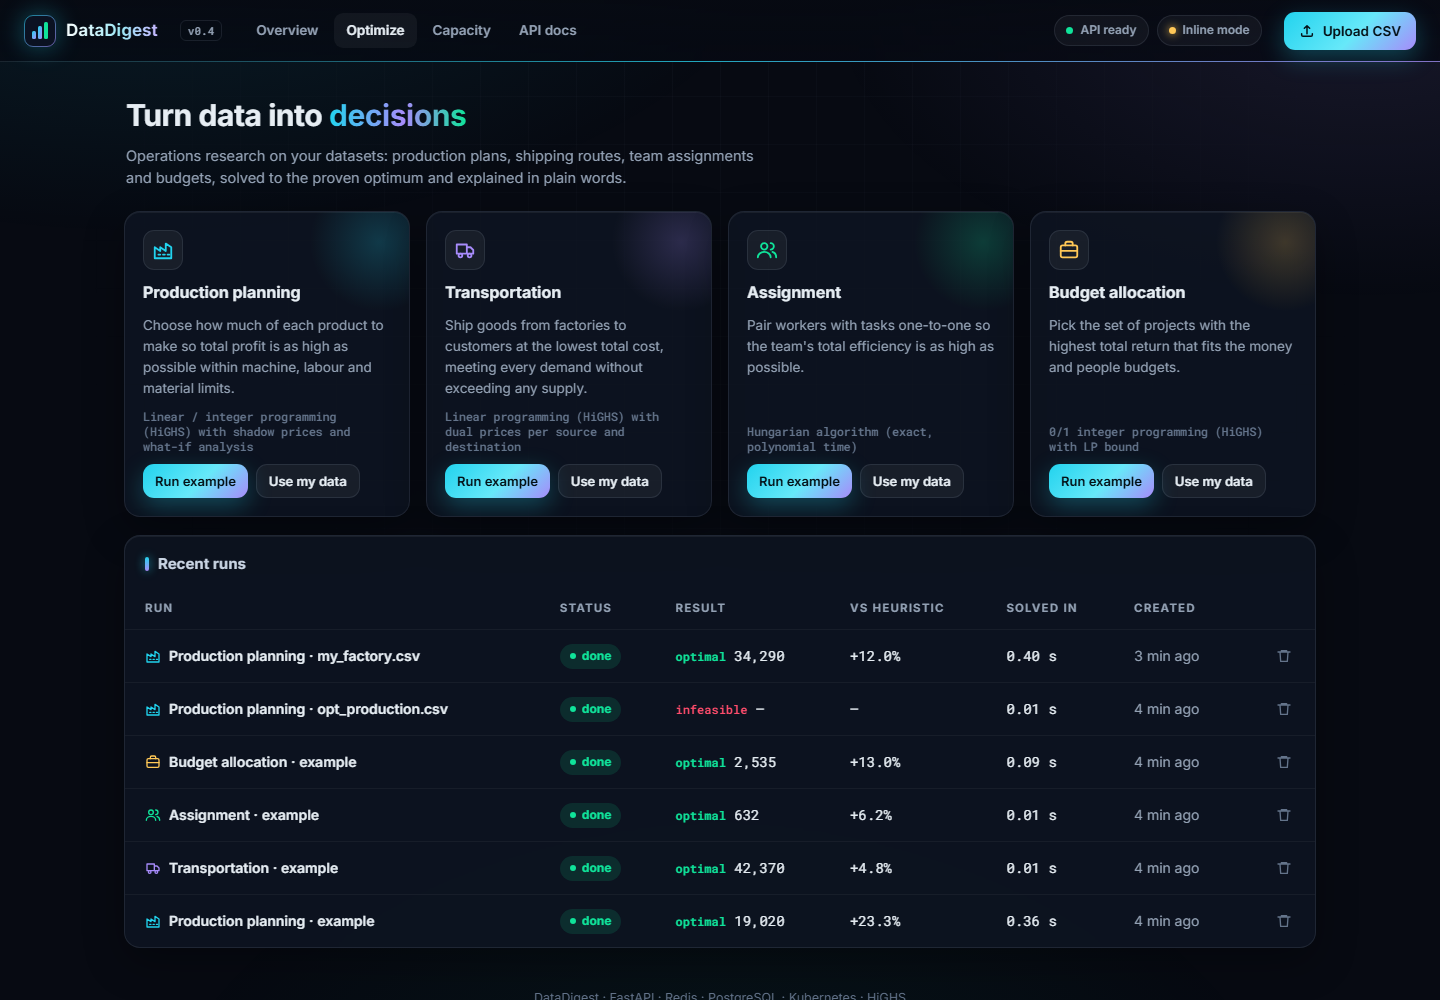
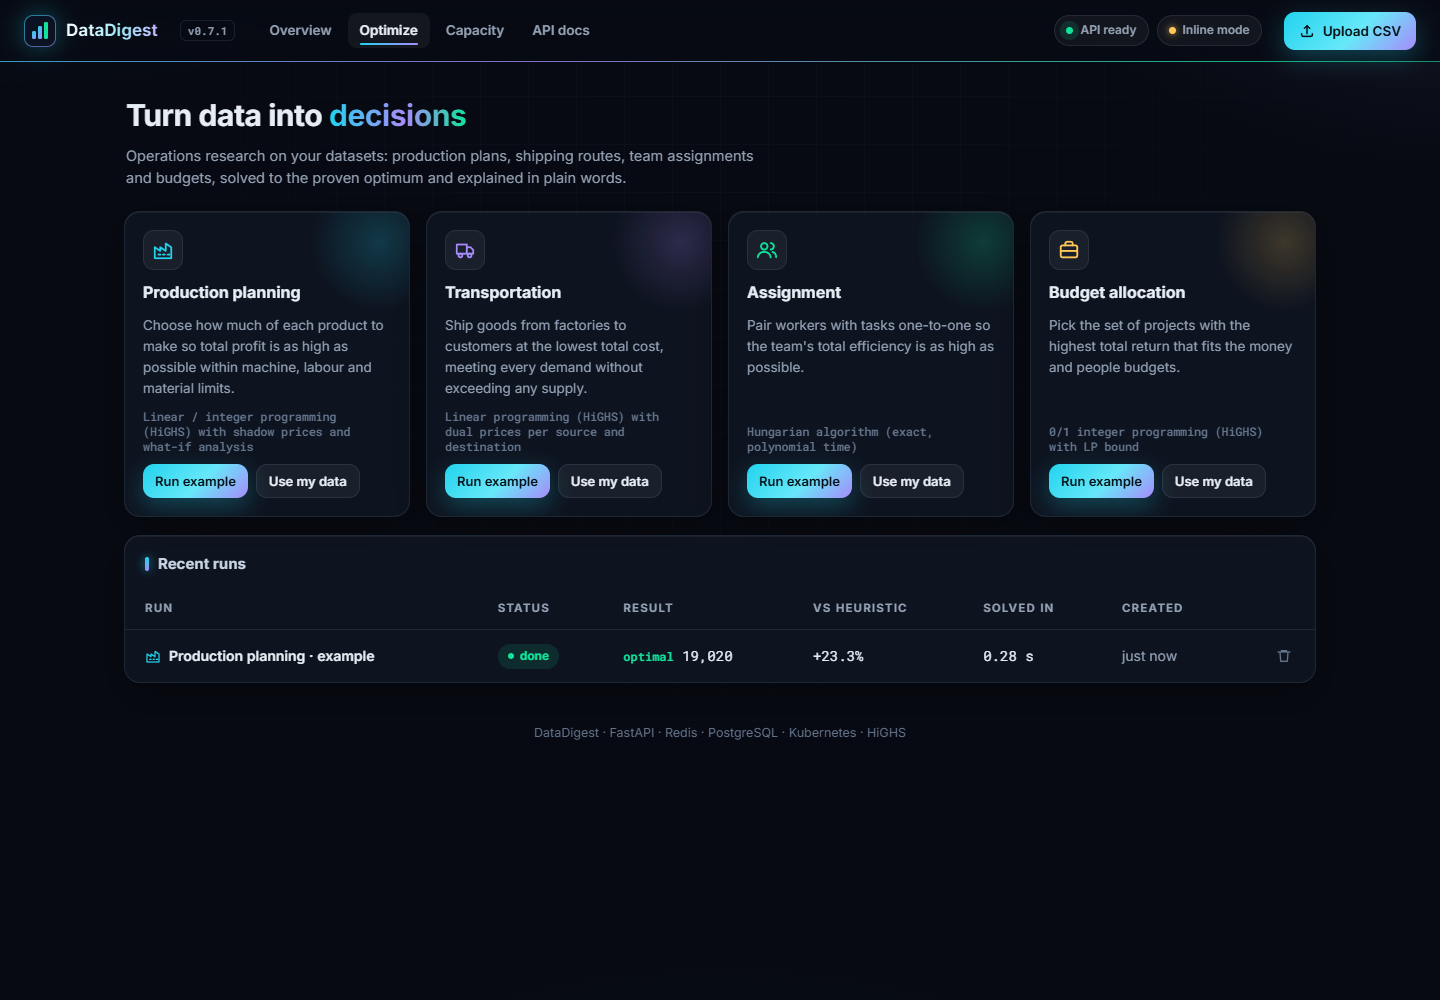
Refresh the optimizer and capacity screenshots; update version examples

diff --git a/README.md b/README.md
@@ -417,7 +417,7 @@ GitHub Actions runs seven jobs on every push:
   - the cleanup CronJob runs once;
   - after the API and database pods are deleted, the data is still there.
 
-Pushing a tag such as `v0.7.0` runs the **release** workflow: it checks that the tag matches
+Pushing a tag such as `v0.7.1` runs the **release** workflow: it checks that the tag matches
 the version in the code and in `CHANGELOG.md`, smoke-tests the image (and the Spark variant),
 pushes them to `ghcr.io/obejarl/datadigest`, and creates the GitHub Release from the changelog.
 

diff --git a/CHANGELOG.md b/CHANGELOG.md
@@ -3,6 +3,11 @@
 Format follows [Keep a Changelog](https://keepachangelog.com/en/1.1.0/); versions follow
 [Semantic Versioning](https://semver.org/) (0.x: the API may still change between minors).
 
+## [Unreleased]
+
+### Changed
+- README screenshots of the optimizer, the production plan and the capacity page show the current interface.
+
 ## [0.7.1] - 2026-11-01
 
 ### Changed
